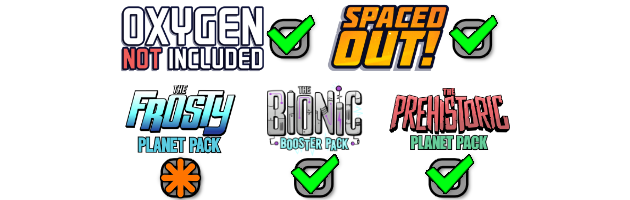
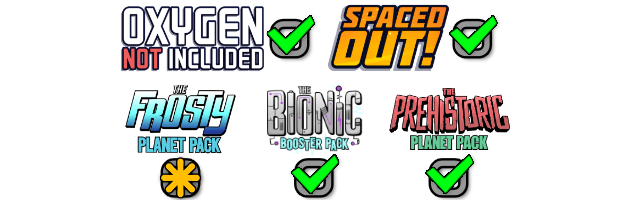
Updated steam desc.s and color tweaks in dlc required compat images

Changed region(s): [[0.2413, 0.78, 0.3317, 0.99]]

diff --git a/DemoliorStoryTrait/SteamDesc.md b/DemoliorStoryTrait/SteamDesc.md
@@ -1,0 +1,33 @@
+[h1]Demolior Story Trait[/h1]
+
+This mod adds a new story trait that allows adding the Demolior impactor asteroid to other clusters.
+
+[img]https://raw.githubusercontent.com/Sgt-Imalas/Sgt_Imalas-Oni-Mods/refs/heads/master/Compat_All_DLC4_Required.png[/img]
+
+[h1]Current latest Version: 1.0.0[/h1]
+
+[hr][/hr]
+
+[h1]Features[/h1]
+[list][*] New Story Trait: Demolior (or Pipmolior)
+[*] Requires the prehistoric planet pack dlc to be installed
+[*] Can be added to any cluster that doesn't contain a demolior asteroid already
+[*] Alternative Shape: Pipmolior - the demolior asteroid is now a Pip, featuring a menacing stare and a custom impact template. Needs to be enabled in the mod config. Will apply to existing clusters and relica worlds when activated.
+[*] Integration with [url=https://steamcommunity.com/sharedfiles/filedetails/?id=2947429297]CGM[/url] included
+[/list]
+
+
+[h1]Bug Reports & Local Download[/h1]
+You can find direct downloads for my mods [url=https://github.com/Sgt-Imalas/Sgt_Imalas-Oni-Mods/releases]here[/url].
+
+Please post bug reports and issues on [url=https://github.com/Sgt-Imalas/Sgt_Imalas-Oni-Mods/issues]GitHub[/url] or on my [url=https://discord.gg/5n7peBCnWZ]Discord Server[/url]. 
+[b]Always include the full player.log in a report: [/b] https://github.com/Sgt-Imalas/Sgt_Imalas-Oni-Mods/wiki/Troubleshooter-Guide#sending-a-log
+
+[b]Make sure you do NOT have the mod "Debug Console" enabled as it breaks the game's logging and makes the log useless for fixing bugs![/b] 
+
+Bugs in the games' mod updating system can leading to mods not updating, always use [url=https://steamcommunity.com/sharedfiles/filedetails/?id=2018291283]Mod Updater[/url] to force updates in that case!
+If you get a "restart required" loop, or the mod is suddenly marked as incompatible, follow the steps of the [url=https://github.com/Sgt-Imalas/Sgt_Imalas-Oni-Mods/wiki/Troubleshooter-Guide#it-crashes---what-now]Troubleshooter[/url].
+
+[hr][/hr]
+
+Do you like the mods I made? If you want, you can support me on [url=https://ko-fi.com/sgtimalas]Kofi[/url] :D

diff --git a/steam_compat.md b/steam_compat.md
@@ -9,3 +9,11 @@ Compatible with vanilla only, no SO:
 
 Compatible with spaced out only, no base game:
 [img]https://raw.githubusercontent.com/Sgt-Imalas/Sgt_Imalas-Oni-Mods/refs/heads/master/Compat_NoBase.png[/img]
+
+
+Compatible with all versions, requires dlc2:
+[img]https://raw.githubusercontent.com/Sgt-Imalas/Sgt_Imalas-Oni-Mods/refs/heads/master/Compat_All_DLC2_Required.png[/img]
+Compatible with all versions, requires dlc3:
+[img]https://raw.githubusercontent.com/Sgt-Imalas/Sgt_Imalas-Oni-Mods/refs/heads/master/Compat_All_DLC3_Required.png[/img]
+Compatible with all versions, requires dlc4:
+[img]https://raw.githubusercontent.com/Sgt-Imalas/Sgt_Imalas-Oni-Mods/refs/heads/master/Compat_All_DLC4_Required.png[/img]

diff --git a/GeothermalStoryTrait/SteamDesc.md b/GeothermalStoryTrait/SteamDesc.md
@@ -1,4 +1,4 @@
-[h1]Fabricator Recipe Control[/h1]
+[h1]Geothermal Story Trait[/h1]
 
 This mod adds a new story trait that allows adding the geothermal heat pump to other clusters.
 
